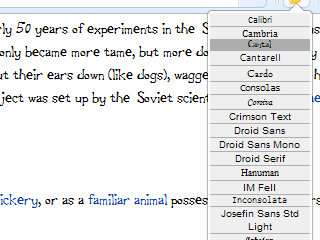
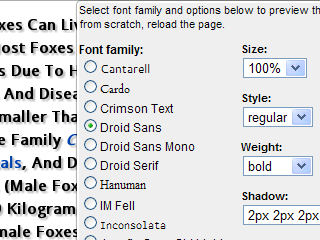
Updating font API changer with text style options.

diff --git a/fontchanger/popup.html b/fontchanger/popup.html
@@ -4,40 +4,38 @@
 <link rel="stylesheet" type="text/css" href="fonts.css"> 
 <STYLE>
 body {
+  background-color: #eee;
+  width: 400px;
   overflow: hidden;
   margin: 0px;
   padding: 0px;
-  background: white;
+  font-family: Arial, sans-serif;
+  font-size: 11px;
 }
 
-div:first-child {
+label {
+  font-weight: bold;
+}
+
+#fonts {
+  float: left;
+  text-align: left;
+  font-size: 12px;
+  margin-top: 1px;
+  margin-right: 10px;
+}
+
+#fonts:first-child {
   margin-top: 0px;
 }
 
-div {
-  cursor: pointer;
-  text-align: center;
-  font-family: sans-serif;
-  font-size: 0.8em;
-  width: 100px;
-  margin-top: 1px;
-  background: #eee;
-}
-div:hover {
-  background: #aaaaaa;
-}
 </STYLE>
 <SCRIPT>
 
 var fonts =
 [
-'Calibri',
-'Cambria',
-'Cantal',
 'Cantarell',
 'Cardo',
-'Consolas',
-'Corsiva',
 'Crimson Text',
 'Droid Sans',
 'Droid Sans Mono',
@@ -57,26 +55,75 @@ var fonts =
 'Yanone Kaffeesatz'
 ];
 
-function changeFont(font) {
-  var fontName = font.replace(' ', '+');
+var fontOptions = {};
+var fontOptionIds = 
+            ['fontFamily',
+             'fontSize',
+             'fontStyle', 
+             'fontWeight',
+             'textShadow',
+             'textDecoration',
+             'textTransform',
+             'letterSpacing',
+             'wordSpacing',
+             'lineHeight'];
+             
+function changeFont() {
+  var fontFamily = fontOptions['fontFamily'] || fonts[0];
+  var fontName = fontFamily.replace(' ', '+');
   var fontCode = 'document.body.innerHTML += \'<link href="http://fonts.googleapis.com/css?family=' + fontName + '" rel="stylesheet" type="text/css">\';';
-  fontCode += 'document.body.style.fontFamily = \'' + font + '\';';
-  fontCode += 'var items = document.getElementsByTagName("*"); for (var i=0, len=items.length; i < len; i++) { items[i].style.fontFamily = \'' + font + '\'; }';
+  for (var i = 0; i < fontOptionIds.length; i++) {
+    var fontOptionId = fontOptionIds[i];
+    if (fontOptions[fontOptionId]) {
+     fontCode += 'document.body.style.' + fontOptionId + ' = \'' + fontOptions[fontOptionId] + '\';'; 
+    }
+  }
+  if (document.getElementById('applyAll').checked) {
+      fontCode += 'var items = document.getElementsByTagName("*"); for (var i=0, len=items.length; i < len; i++) {';
+      for (var i = 0; i < fontOptionIds.length; i++) {
+        var fontOptionId = fontOptionIds[i];
+        if (fontOptions[fontOptionId]) {
+         fontCode += 'if (items[i].style.' + fontOptionId + '.length != 0) {';
+         fontCode += 'items[i].style.' + fontOptionId + ' = \'' + fontOptions[fontOptionId] + '\''; 
+         fontCode += '}';
+        }
+      }
+      fontCode += '}';
+  }
   chrome.tabs.executeScript(null, {code: fontCode});
-  window.close();
 }
 
 
 function addFont(font) {
   var div = document.createElement('div');
+  var input = document.createElement('input');
+  input.type = 'radio';
+  input.name = 'fontFamily';
+  input.value = font;
+  input.onchange = function () {
+    fontOptions['fontFamily'] = font;
+    changeFont();
+  };
+  div.appendChild(input);
   div.style.fontFamily = font.replace(' ', '+');
   div.style.fontStyle = 'normal';
   div.style.fontWeight = 'normal';
-  div.innerHTML = font;
-  div.onclick = function () {
-    changeFont(font);
-  };
-  document.getElementById("options").appendChild(div);
+  div.appendChild(document.createTextNode(font));
+  document.getElementById("fontfamily").appendChild(div);
+}
+
+function changeOption(elem) {
+  var id = elem.id;
+  var value = elem.value;
+  if (id == 'fontSize') {
+    value += '%';
+  }
+  if (id == 'lineHeight' || id == 'wordSpacing' || id == 'letterSpacing') {
+    value = value * .01;
+    value += 'em';
+  }
+  fontOptions[id] = value;
+  changeFont();
 }
 
 function onLoad() {
@@ -88,6 +135,84 @@ function onLoad() {
 </SCRIPT>
 </HEAD>
 <BODY onload="onLoad()">
-<div id="options">
+
+<p>Select font family and options below to preview them on the current tab.
+To start from scratch, reload the page.</p>
+
+<div style="clear:both">
+<div id="fonts">
+  <label>Font family:</label>
+  <div id="fontfamily"></div>
 </div>
+
+  <div>
+  <p><label>Size:<br>
+   <select id="fontSize" onchange="changeOption(this)">
+    <option>50%</option>
+    <option selected>100%</option>
+    <option>150%</option>
+    <option>200%</option>
+  </select></label>
+   </p>
+  <p>
+  <label>Style: <br>
+  <select id="fontStyle" onchange="changeOption(this)">
+    <option selected>regular</option>
+    <option>italic</option>
+  </select></label>
+  </p>
+  <p>
+  <label>Weight: <br>
+  <select id="fontWeight" onchange="changeOption(this)">
+    <option selected>regular</option>
+    <option>bold</option>
+  </select></label>
+  </p>
+  <p>
+  <label>Shadow:<br>
+  <select id="textShadow" onchange="changeOption(this)">
+    <option selected>none</option>
+    <option>2px 2px 2px #aaa</option>
+    <option>4px 4px 4px #bbb</option>
+    <option>6px 6px 6px #ccc</option>
+    <option>8px 8px 8px #ddd</option>
+   </select></label>
+  <p>
+  <p>
+  <label>Transform:<br>
+  <select id="textTransform" onchange="changeOption(this)">
+    <option selected>none</option>
+    <option>capitalize</option>
+    <option>uppercase</option>
+    <option>lowercase</option>
+  </select></label>
+  </p>
+  <p>
+  <label>Decoration:<br>
+  <select id="textDecoration" onchange="changeOption(this)">
+    <option selected>none</option>
+    <option>underline</option>
+    <option>line-through</option>
+    <option>overline</option>
+  </select></label>
+  </p>
+  <br>
+  <label style="border-top:1px solid black; padding-top: 10px">Apply to all DOM nodes?
+  <input type="checkbox" id="applyAll" onchange="changeOption(this)" checked>
+  </label>
+  <p><em>This can slow down the preview on long/highly-styled pages. Turning it off will apply them only to the body tag.</em></p>
+  
+  </div>
+  <!--
+  <p><label>Letter:<br>
+    <input id="letterSpacing" type="range" min="0" max="100" step="1" onchange="changeOption(this)" value="0"></label></p>
+  <p><label>Word:<br>
+    <input id="wordSpacing" type="range" min="-20" max="100" step="1" onchange="changeOption(this)" value="0"></label></p>
+  <p><label>Line:<br>
+    <input id="lineHeight" type="range" min="60" max="200" step="1" onchange="changeOption(this)" value="100"></label></p>
+   -->
+   
+</div>
+
+
 </BODY></HTML>
